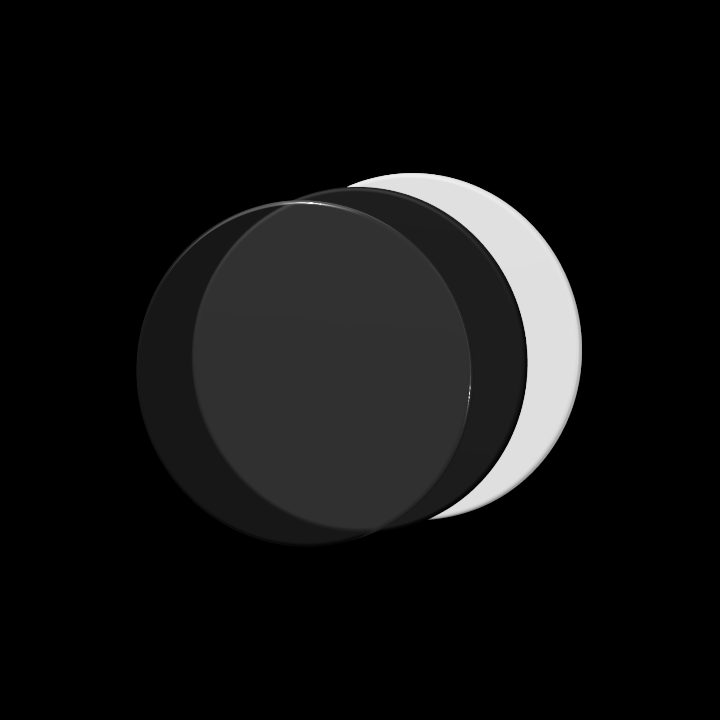
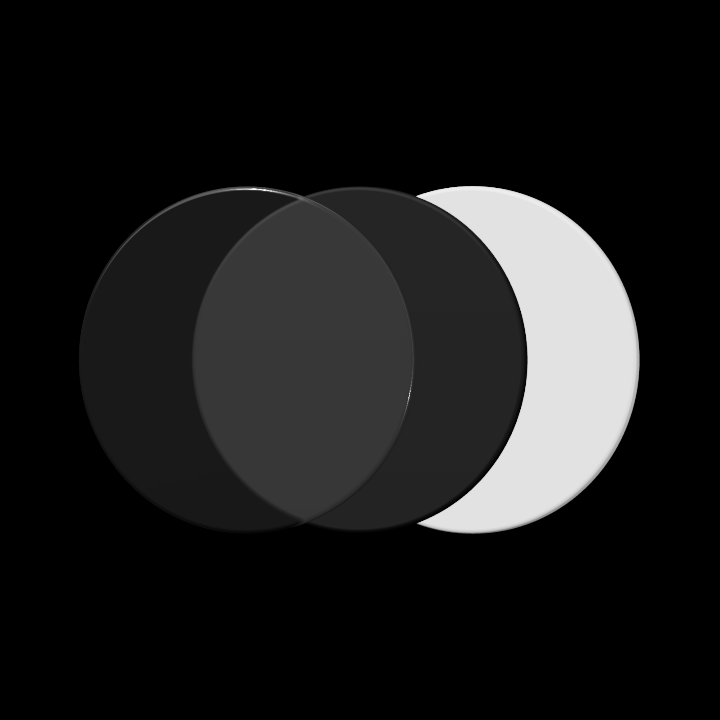
Center responsive optical artwork and level the animation spacing

Changed region(s): [[0.0917, 0.2139, 0.8861, 0.7639], [0.6722, 0.3361, 0.7028, 0.3667], [0.6417, 0.3056, 0.6722, 0.3361]]

diff --git a/index.html b/index.html
@@ -72,7 +72,7 @@
     <link rel="icon" type="image/png" sizes="48x48" href="iconsite_00000.png">
     <link rel="shortcut icon" href="iconsite_00000.png">
     <link rel="stylesheet" href="site.min.css?v=20260903-8" />
-    <link rel="stylesheet" href="refinement.css?v=20260925-focus-stack" />
+    <link rel="stylesheet" href="refinement.css?v=20260925-focus-centered" />
     <style>
         .name-wrapper {
             display: flex;
@@ -881,7 +881,7 @@
                     </div>
                     <div class="flex justify-center relative page-artwork-right">
                         <div id="ai-optical" class="page-optical visualisierung-img" data-optical-variant="ai" data-motion="focus-stack" aria-hidden="true">
-                            <img src="motion/focus-stack-ai.png?v=20260925-focus-front-restored"
+                            <img src="motion/focus-stack-ai.png?v=20260925-focus-level"
                                 alt="" width="720" height="720" loading="lazy">
                         </div>
                     </div>
@@ -1529,7 +1529,7 @@ This proof of concept video was commissioned by a production company for a Chine
                     </div>
                     <div class="flex justify-center page-artwork-right">
                         <div id="tech-optical" class="page-optical video-editing-img" data-optical-variant="tech" data-motion="focus-stack" aria-hidden="true">
-                            <img src="motion/focus-stack-tech.png?v=20260925-focus-front" alt="" width="720" height="720" loading="lazy">
+                            <img src="motion/focus-stack-tech.png?v=20260925-focus-level" alt="" width="720" height="720" loading="lazy">
                         </div>
                     </div>
                 </div>
@@ -1733,7 +1733,7 @@ This proof of concept video was commissioned by a production company for a Chine
                     </div>
                     <div class="flex justify-center page-artwork-right">
                         <div id="masterclass-optical" class="page-optical misc-hero-img" data-optical-variant="masterclass" data-motion="focus-stack" aria-hidden="true">
-                            <img class="misc-hero-img" src="motion/focus-stack-masterclass.png?v=20260925-focus-front-restored" alt="" width="720" height="720" loading="lazy">
+                            <img class="misc-hero-img" src="motion/focus-stack-masterclass.png?v=20260925-focus-level" alt="" width="720" height="720" loading="lazy">
                         </div>
                     </div>
                 </div>
@@ -2063,6 +2063,6 @@ This proof of concept video was commissioned by a production company for a Chine
 
     <script src="script.js?v=20260925-higgsfield-treatment-on" defer></script>
     <script src="refinement.js?v=20260912-phone-orientation" defer></script>
-    <script src="ai-optical.js?v=20260925-focus-sync" defer></script>
+    <script src="ai-optical.js?v=20260925-focus-level" defer></script>
 </body>
 </html>

diff --git a/motion/focus-stack.js b/motion/focus-stack.js
@@ -40,11 +40,12 @@ export function createFocusStack(container,{variant="ai",autoplay=true,timeline=
   const order=variant==='tech'?[dark,glass,white]:variant==='masterclass'?[white,dark,glass]:[dark,white,glass];
   const plates=order.map(mat=>disc(.94,mat));
   animate=t=>{const a=TAU*t/duration,open=.5-.5*Math.cos(a);
-    const yaw=-.34+.08*Math.sin(a),previousYaw=-.58+.14*Math.sin(a);
-    group.rotation.set(.07,yaw,-.035);
-    // Retain the visible horizontal spacing as the discs face the viewer more directly.
+    const yaw=-.34+.08*Math.sin(a);
+    group.rotation.set(0,yaw,0);
+    // Keep every centre level and define the visible spacing independently of yaw.
     const depth=.46+.26*open;
-    const horizontal=((.02+.14*open)*Math.cos(previousYaw)+depth*Math.sin(previousYaw)-depth*Math.sin(yaw))/Math.cos(yaw);
+    const spacing=.38+.28*open;
+    const horizontal=(-spacing/1.6-depth*Math.sin(yaw))/Math.cos(yaw);
     plates.forEach((p,i)=>{p.position.set((i-1)*horizontal,0,(i-1)*depth).multiplyScalar(1.6);p.rotation.y=(i-1)*.025*open;});};
 
   let time=duration*.36,playing=autoplay,speed=1,frame=0,last=0,visible=false,lost=false,disposed=false,averageMs=16.7,samples=0;

diff --git a/ai-optical.js b/ai-optical.js
@@ -24,7 +24,7 @@ document.querySelectorAll('[data-optical-variant]:not([data-motion="static"]), [
         const { createEclipse } = await import('./motion/soft-totality.js?v=20260925-about');
         create = () => createEclipse(art, 3, { autoplay: true });
       } else {
-        const { createFocusStack, focusTimeline } = await import('./motion/focus-stack.js?v=20260925-focus-sync');
+        const { createFocusStack, focusTimeline } = await import('./motion/focus-stack.js?v=20260925-focus-level');
         timeline = focusTimeline;
         create = () => createFocusStack(art, {
           autoplay: true,

diff --git a/refinement.css b/refinement.css
@@ -597,10 +597,14 @@
   will-change: auto;
 }
 
-/* Align the animated artwork slots with the outer content edge. */
+/* Keep About's placement; centre the three page animations in their grid column. */
 @media (min-width: 768px) {
-  :is(#about, #ai-page, #video-editing-page, #miscellaneous-page) .page-artwork-right {
+  #about .page-artwork-right {
     justify-content: flex-end;
+  }
+
+  :is(#ai-intro, #video-editing-page, #miscellaneous-page) .page-artwork-right {
+    justify-content: center;
   }
 }
 
